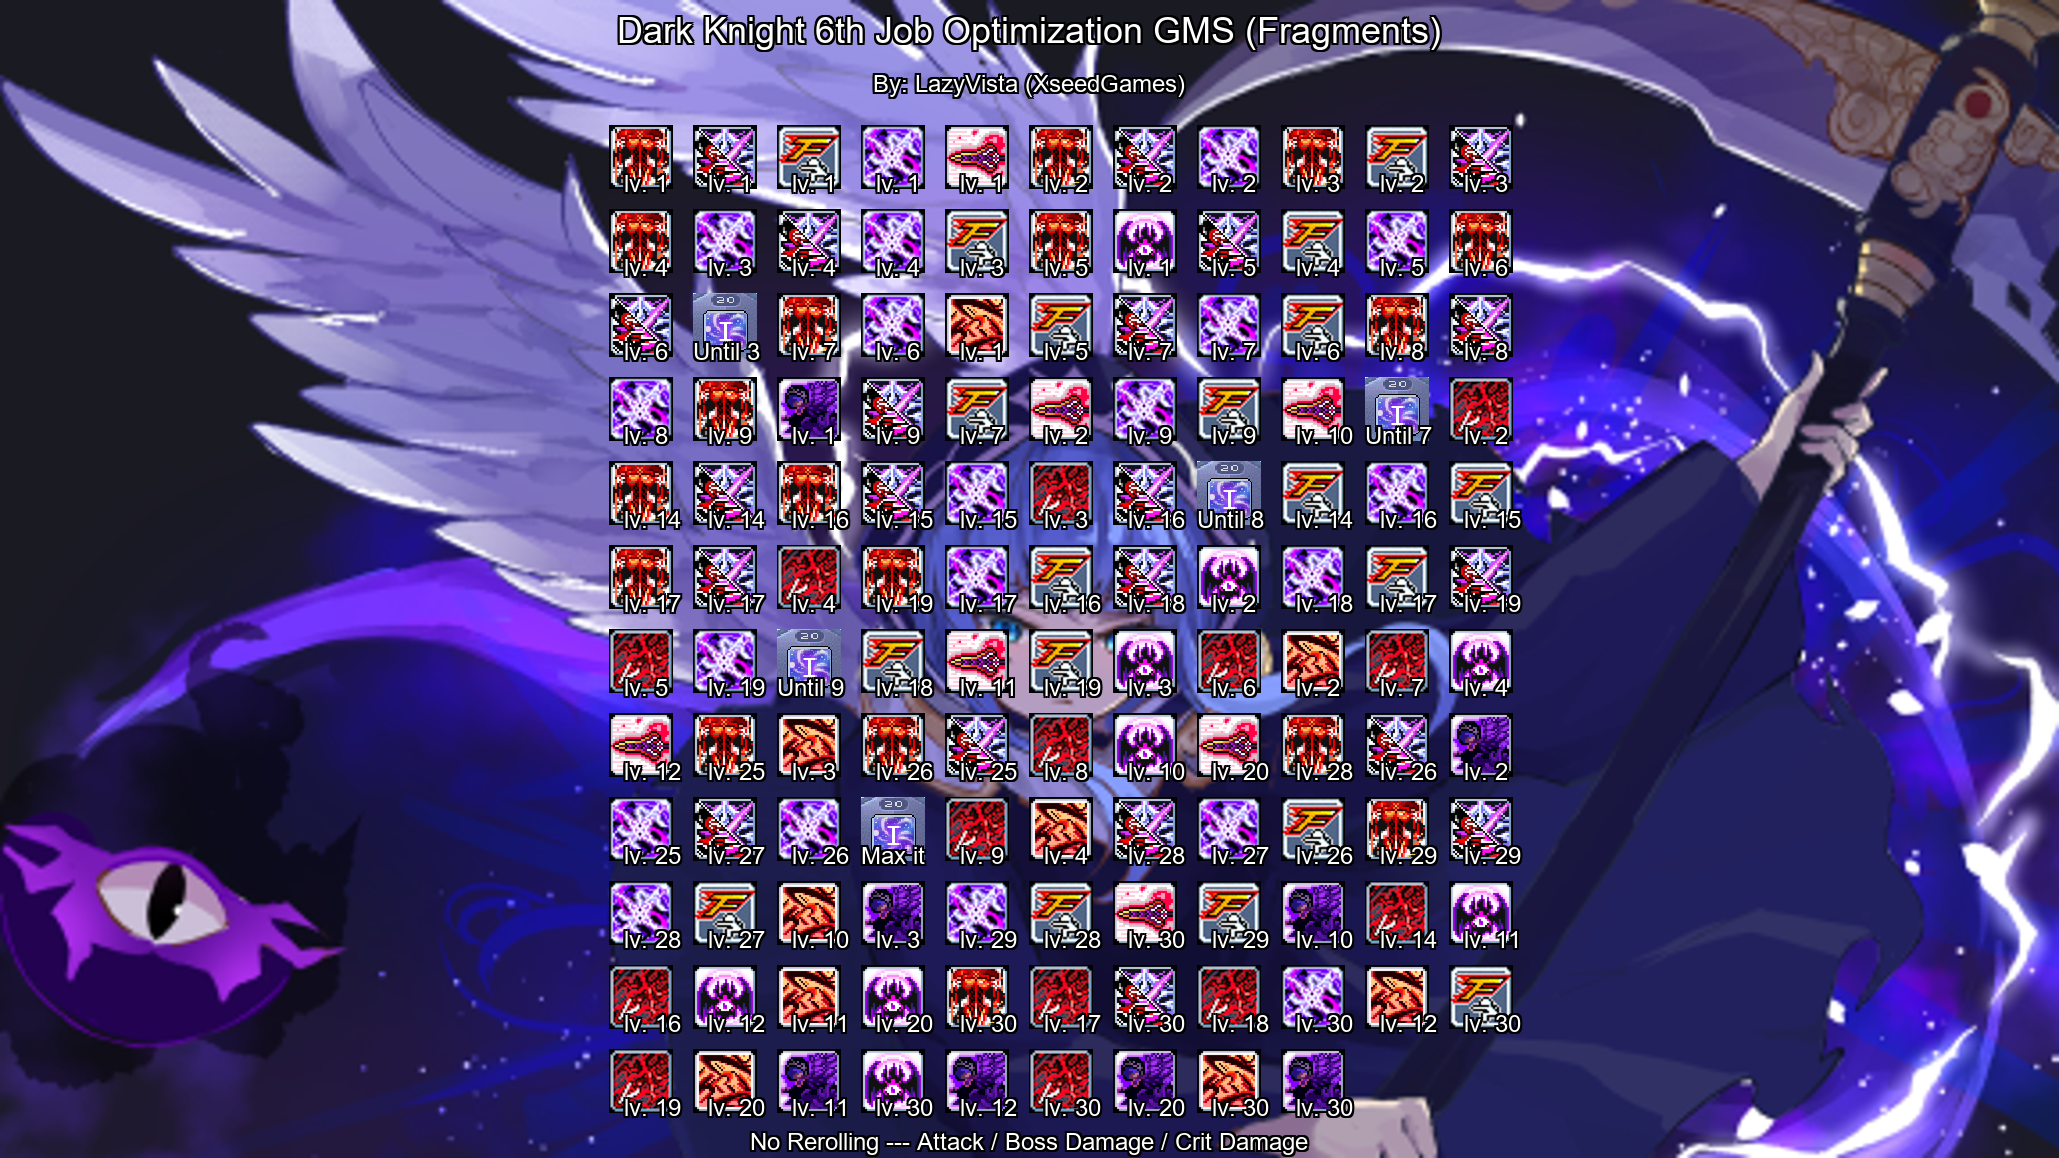
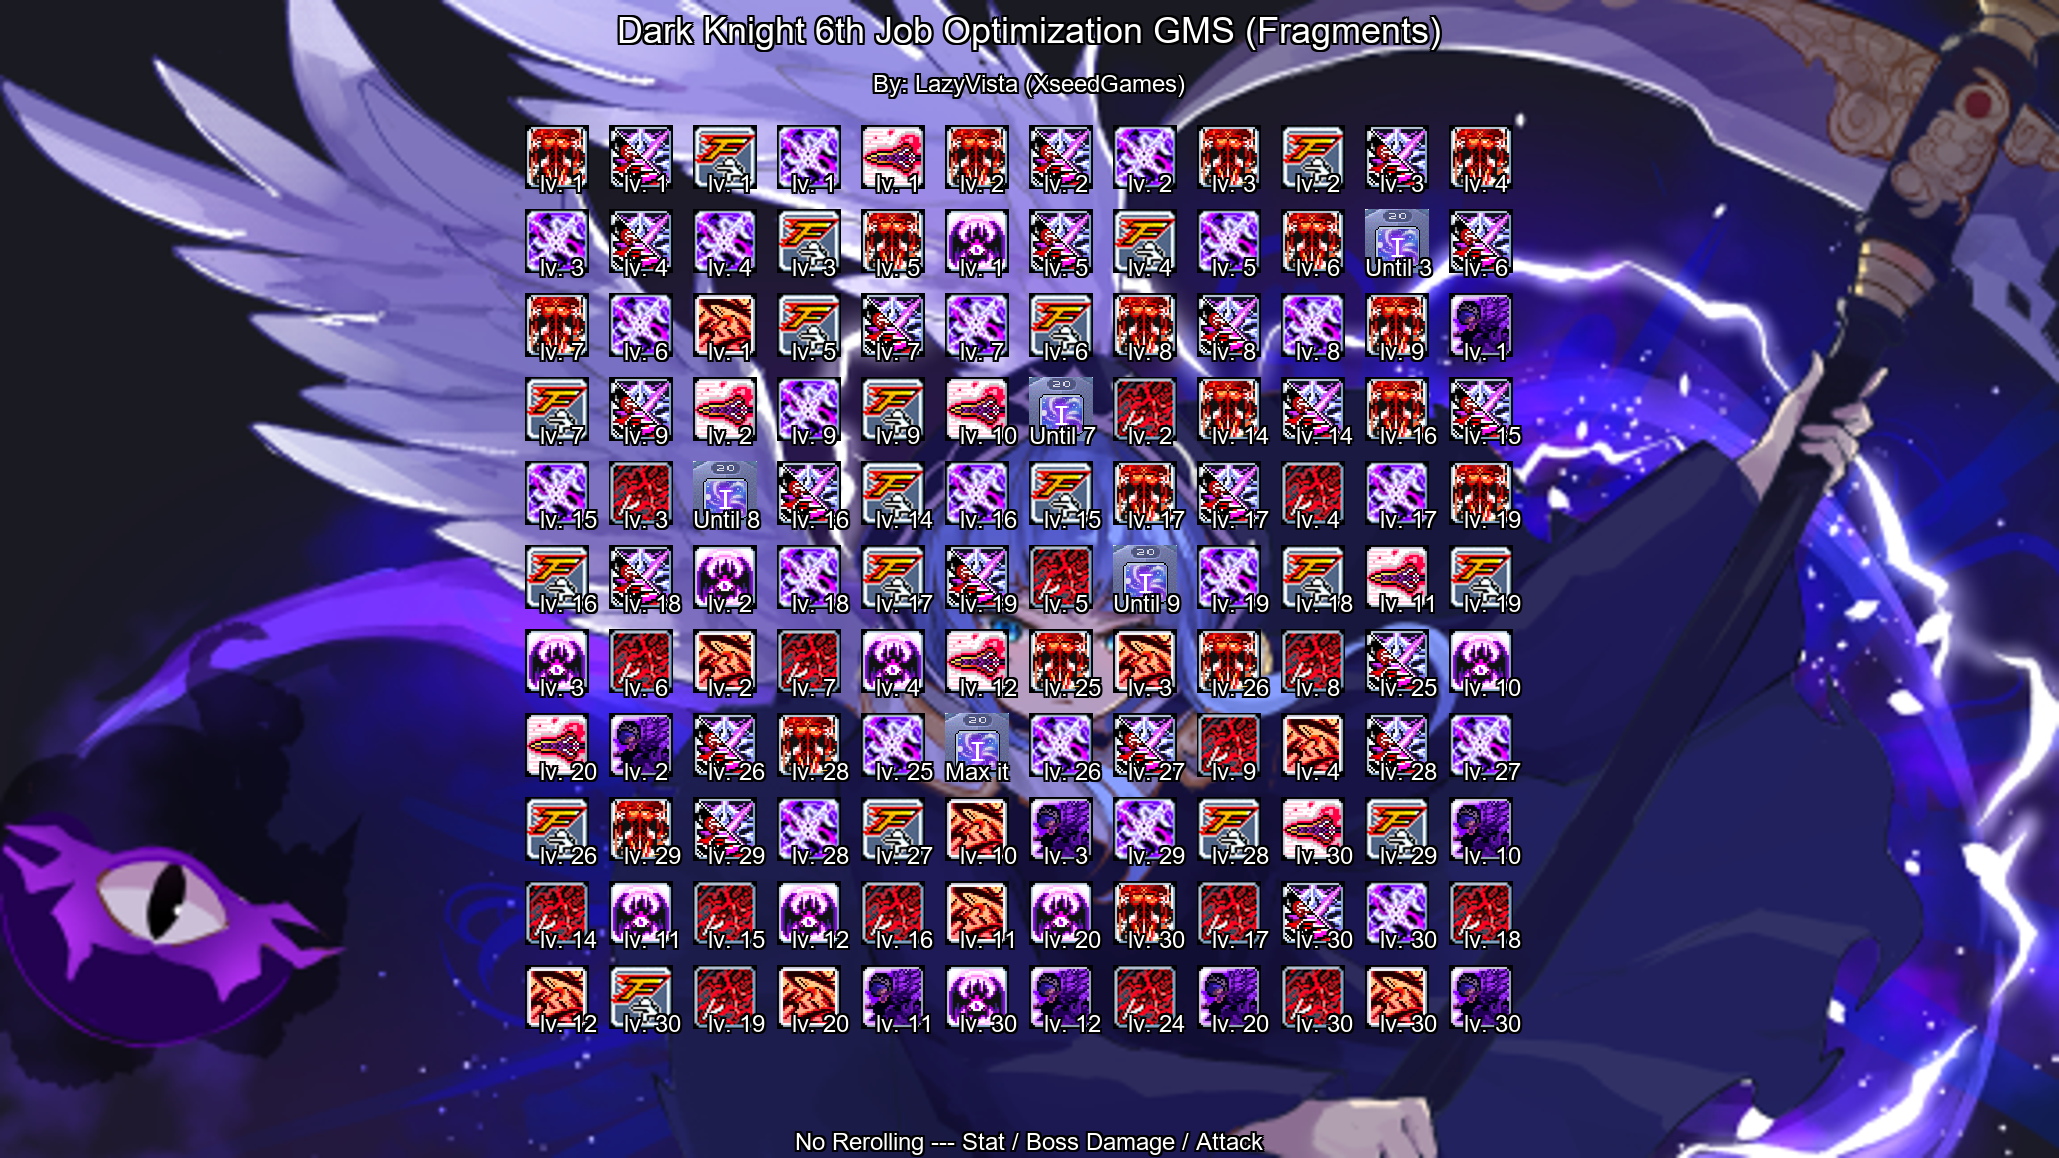
Changing some stat numbers and commenting

Changed region(s): [[0.2487, 0.0933, 0.746, 1.0]]

diff --git a/Auto_Infographic_Optimize/Hexa_Skill_Optimize.py b/Auto_Infographic_Optimize/Hexa_Skill_Optimize.py
@@ -22,8 +22,8 @@ Toggle_Stuff = {
 # IED is what you see on character sheet
 # Hidden IED is IED that doesnt show up on your character page, explorer link, built into skills, debuffs, etc etc
 Base_Numbers = {
-    'Damage'    :502+78+90,
-    'IED'       :96,
+    'Damage'    :487+90+80,
+    'IED'       :97,
     'Hidden_IED':40,
     'Boss_Def'  :380
     }
@@ -75,10 +75,10 @@ Level_Distribution = {
 
 # These stats (Crit_Dmg, Att_Power, Att_Perc, Stat) are only used if Toggle_Stuff['Hexa_Stat_Include'] is True
 Additional_Numbers = {
-    'Crit_Dmg'  :141.4,
-    'Att_Power' :9076,
-    'Att_Perc'  :145,
-    'Stat'      :81500
+    'Crit_Dmg'  :130 + 30,
+    'Att_Power' :7605,
+    'Att_Perc'  :97,
+    'Stat'      :74000
     }
 
 # Hexa_Stat_ Main/Alt values are only used if Toggle_Stuff['Hexa_Maxed'] is True, uses a [level,Stat] format, use the following strings of "Stat"
@@ -1166,7 +1166,7 @@ def Run_Main():
     ListPrint(Compressed_Final_List)
     # printing stuff
 
-    grid_width, grid_height = 11, 4  # You can adjust these dimensions as needed
+    grid_width, grid_height = 12, 4  # You can adjust these dimensions as needed
     spacing = 20
 
     # Calculate the size of each image and the spacing
